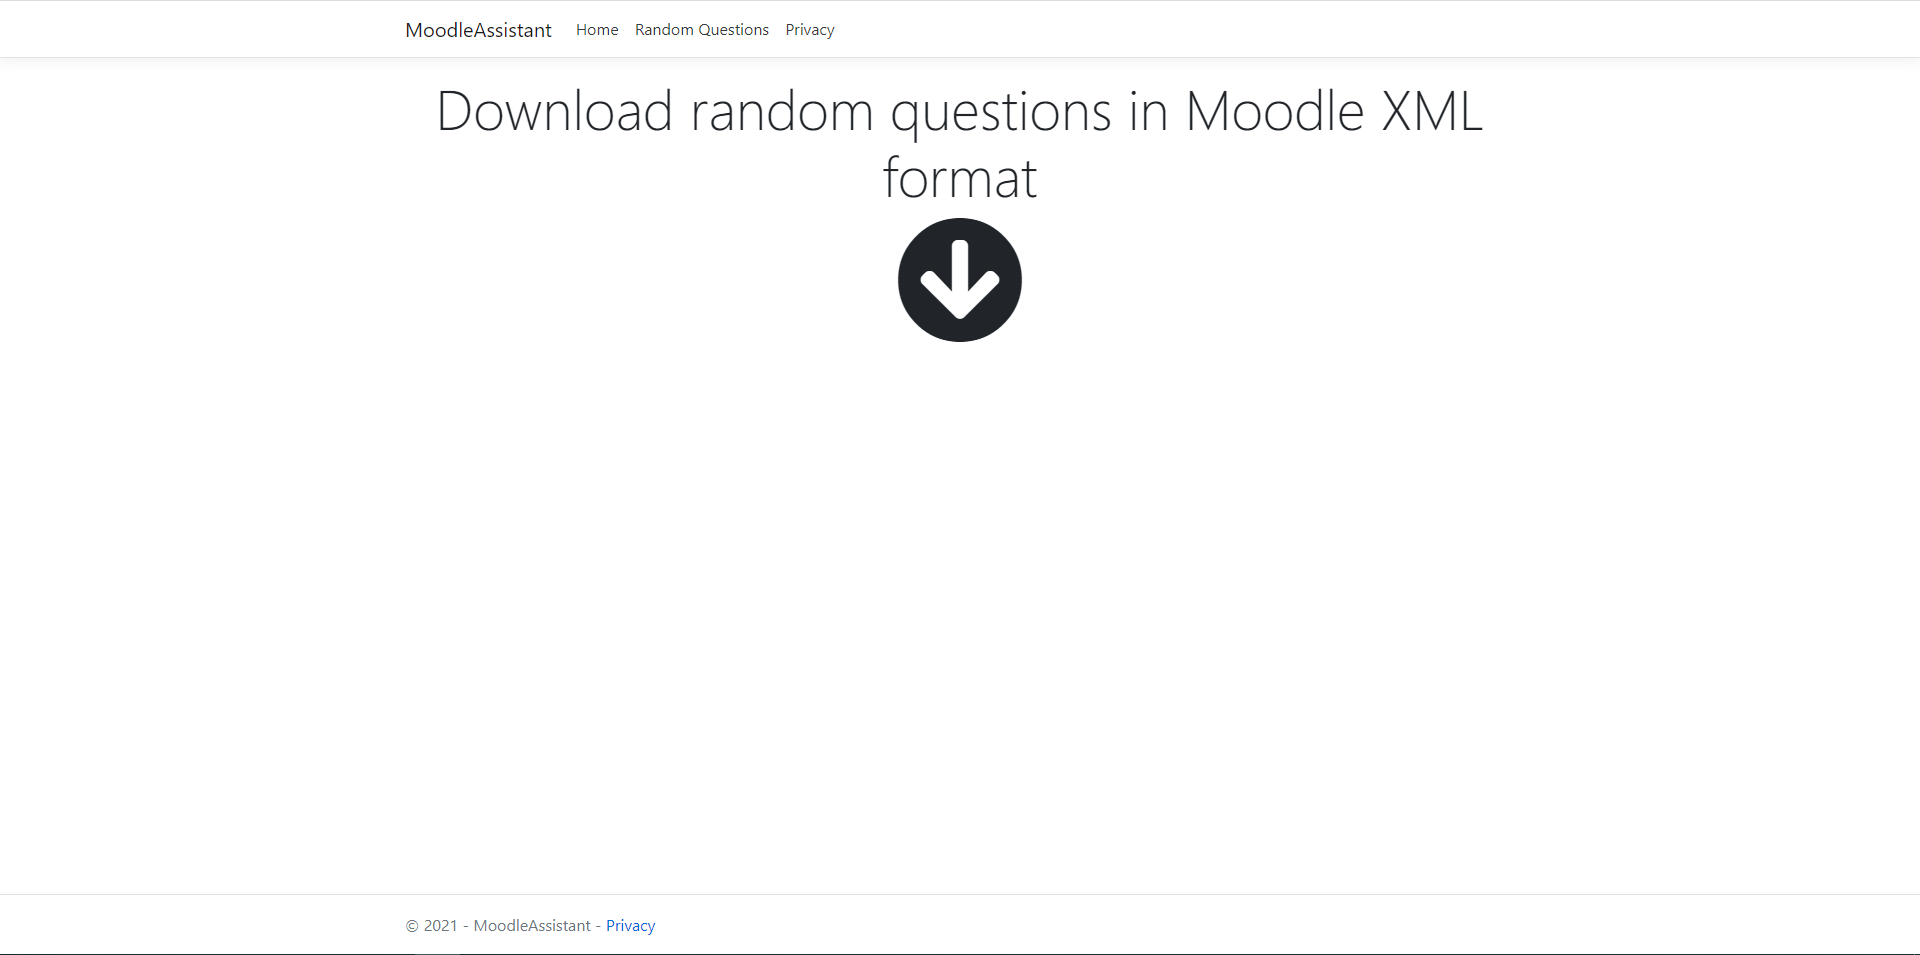
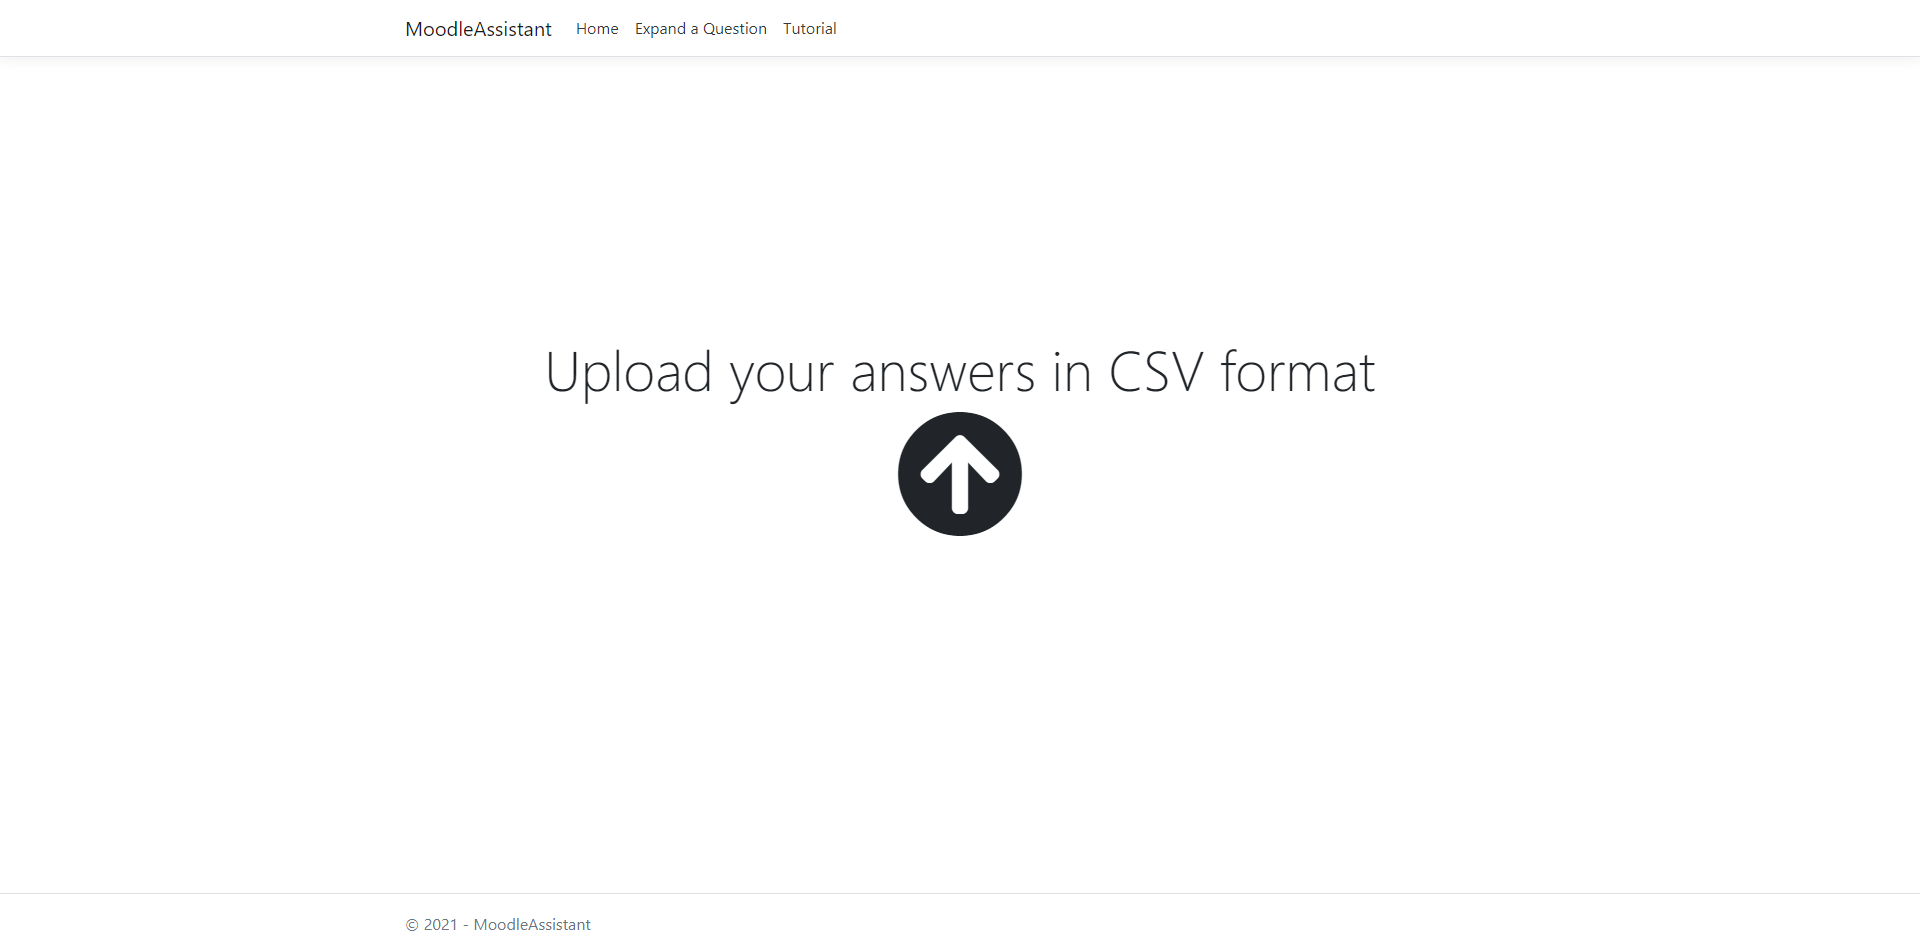
editi home page, add tutorial page and change name from random questions to expand a question.

diff --git a/src/MoodleAssistant/wwwroot/css/site.css b/src/MoodleAssistant/wwwroot/css/site.css
@@ -79,3 +79,12 @@ body {
 .guide-title {
     margin-top: 50px;
 }
+.title-container {
+    margin-top: 20%;
+}
+.upload-container{
+    margin-top: 25%;
+}
+.cursor-pointer {
+    cursor: pointer;
+}

diff --git a/tests/MoodleAssistant.UnitTests/TestsBase.cs b/tests/MoodleAssistant.UnitTests/TestsBase.cs
@@ -9,7 +9,7 @@ namespace MoodleAssistant.UnitTests
         protected readonly IWebDriver WebDriver;
         protected const string SiteUrl = "https://localhost:44379/";
         protected const string AssetsDir = @"C:\Users\andre\source\repos\MoodleAssistant\tests\assets\xmlFiles\";
-        protected const string RandomQuestionPageTitle = "Random Questions - MoodleAssistant";
+        protected const string RandomQuestionPageTitle = "Upload XML - MoodleAssistant";
         protected const string SummaryPagePageTitle = "Summary Page - MoodleAssistant";
         protected const string UploadCsvPageTitle = "Upload CSV - MoodleAssistant";
         protected const string DownloadPageTitle = "Download - MoodleAssistant";

diff --git a/src/MoodleAssistant/Controllers/HomeController.cs b/src/MoodleAssistant/Controllers/HomeController.cs
@@ -24,7 +24,7 @@ namespace MoodleAssistant.Controllers
             return View();
         }
 
-        public IActionResult Privacy()
+        public IActionResult Tutorial()
         {
             return View();
         }
